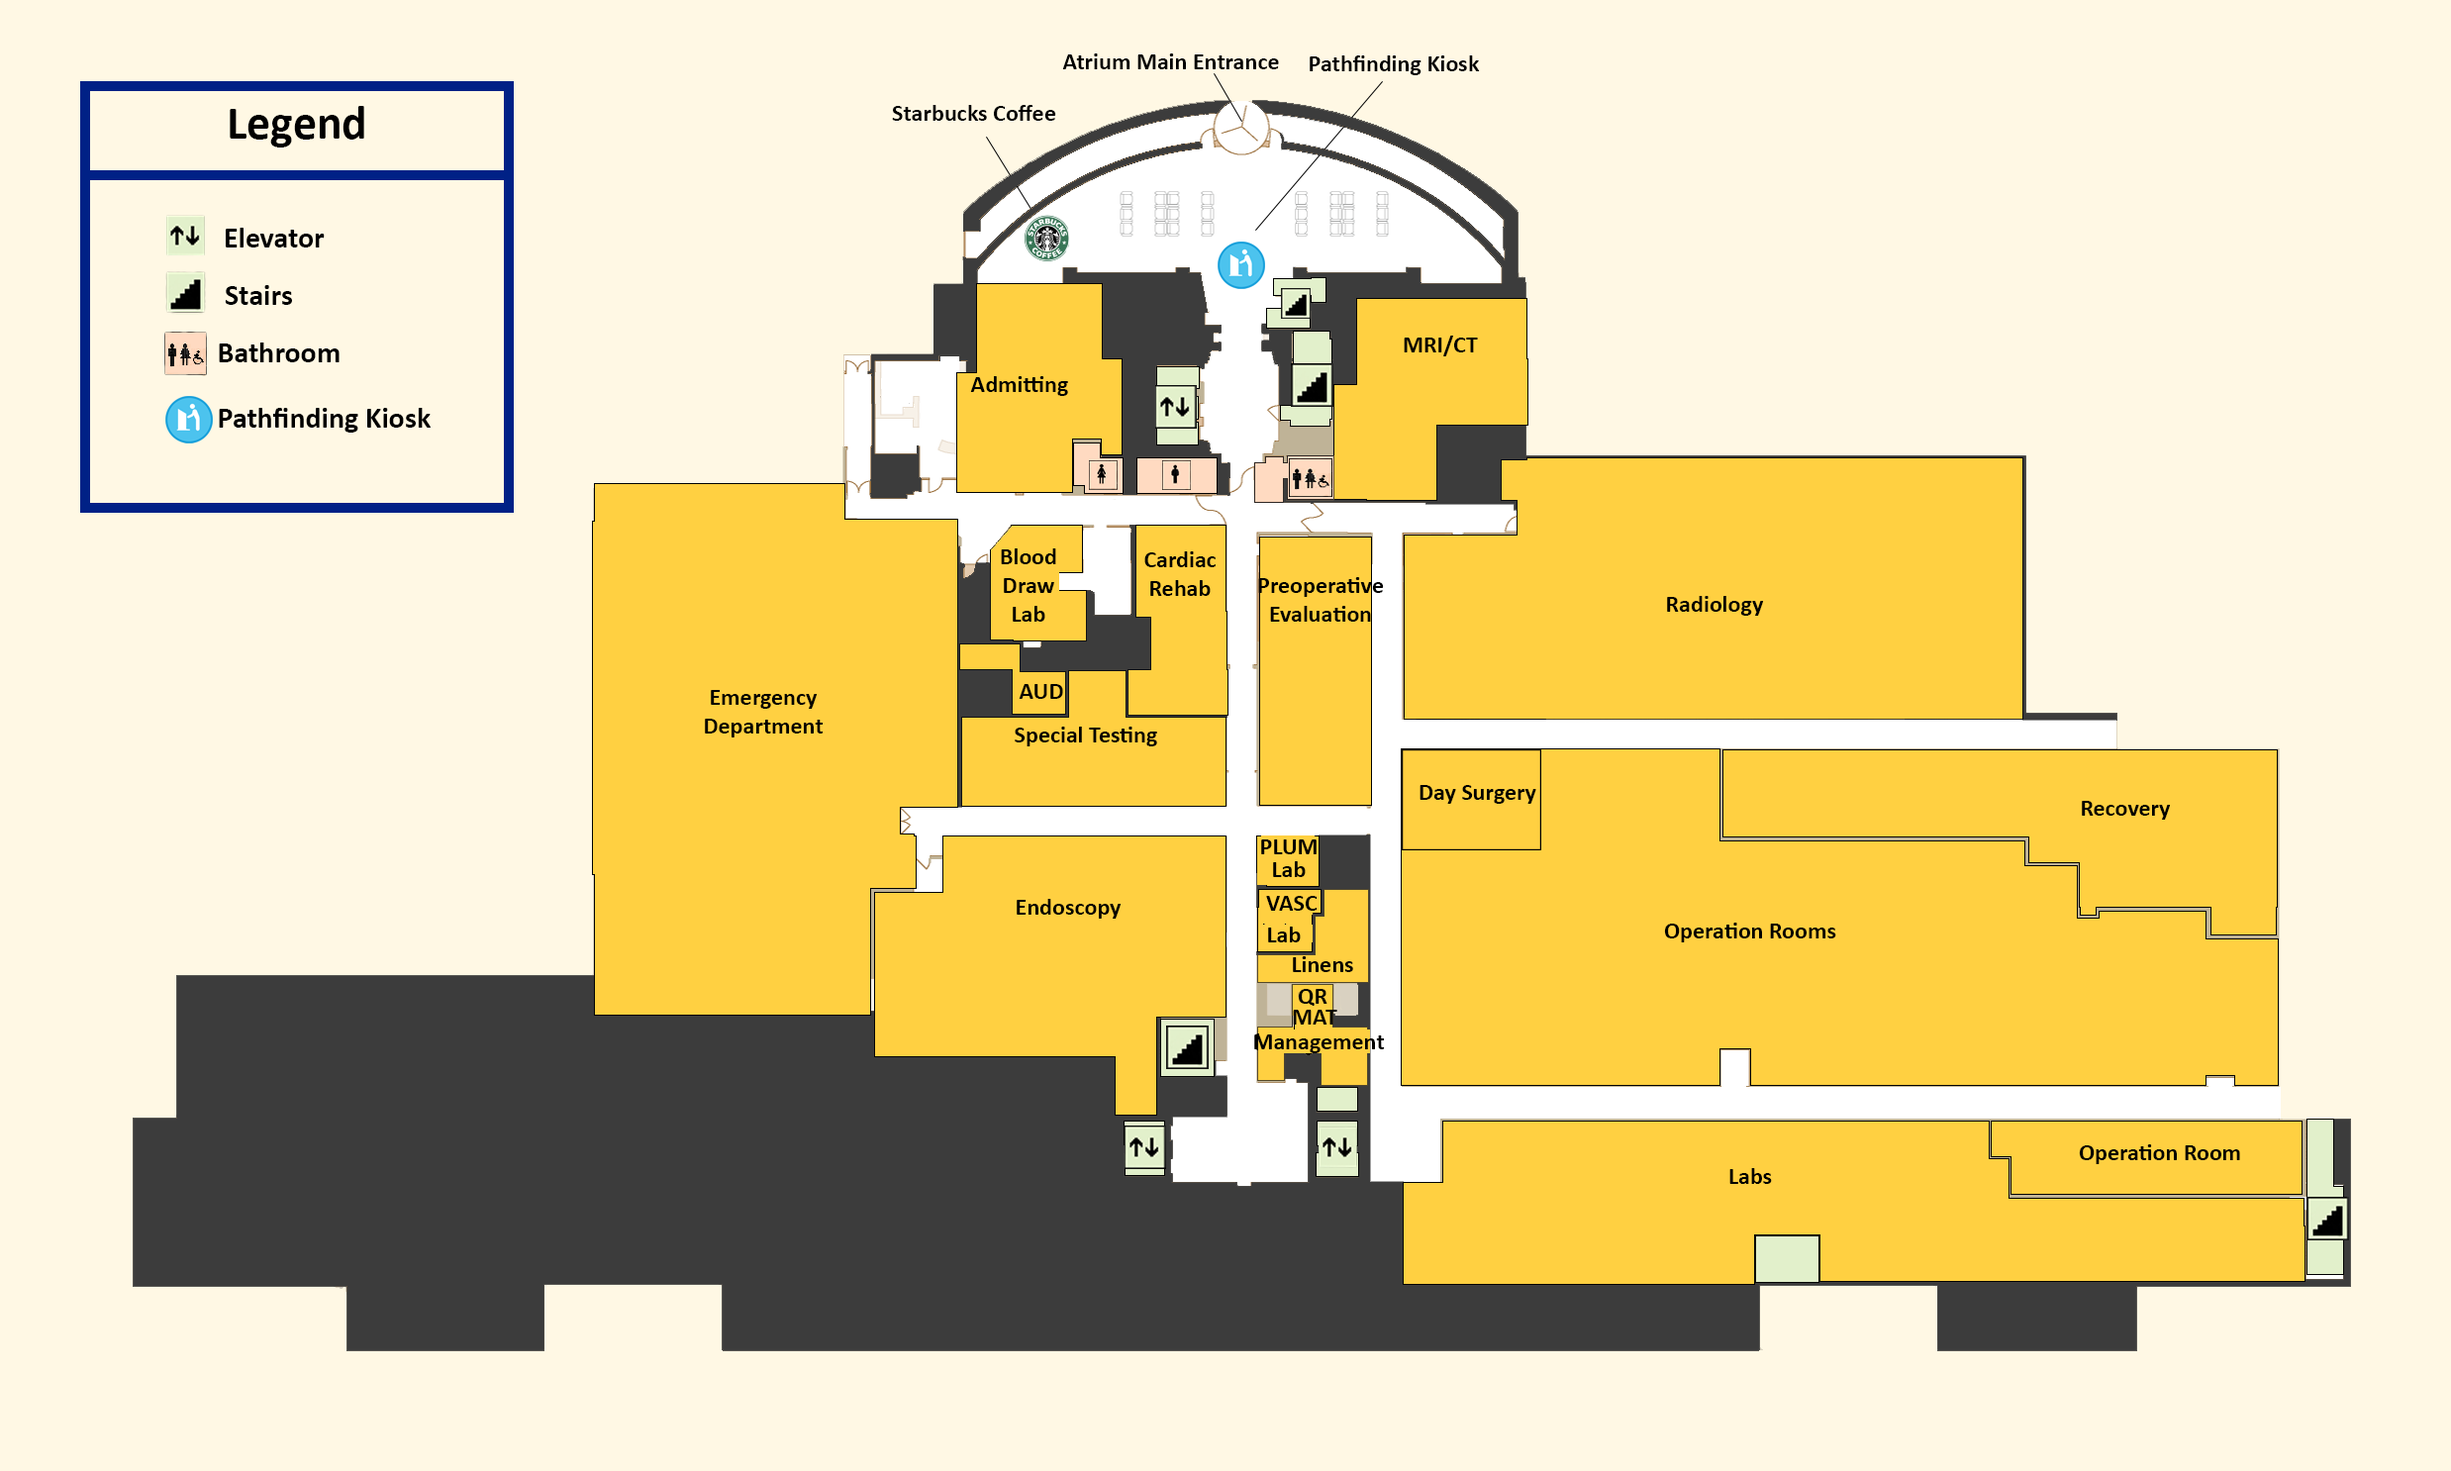
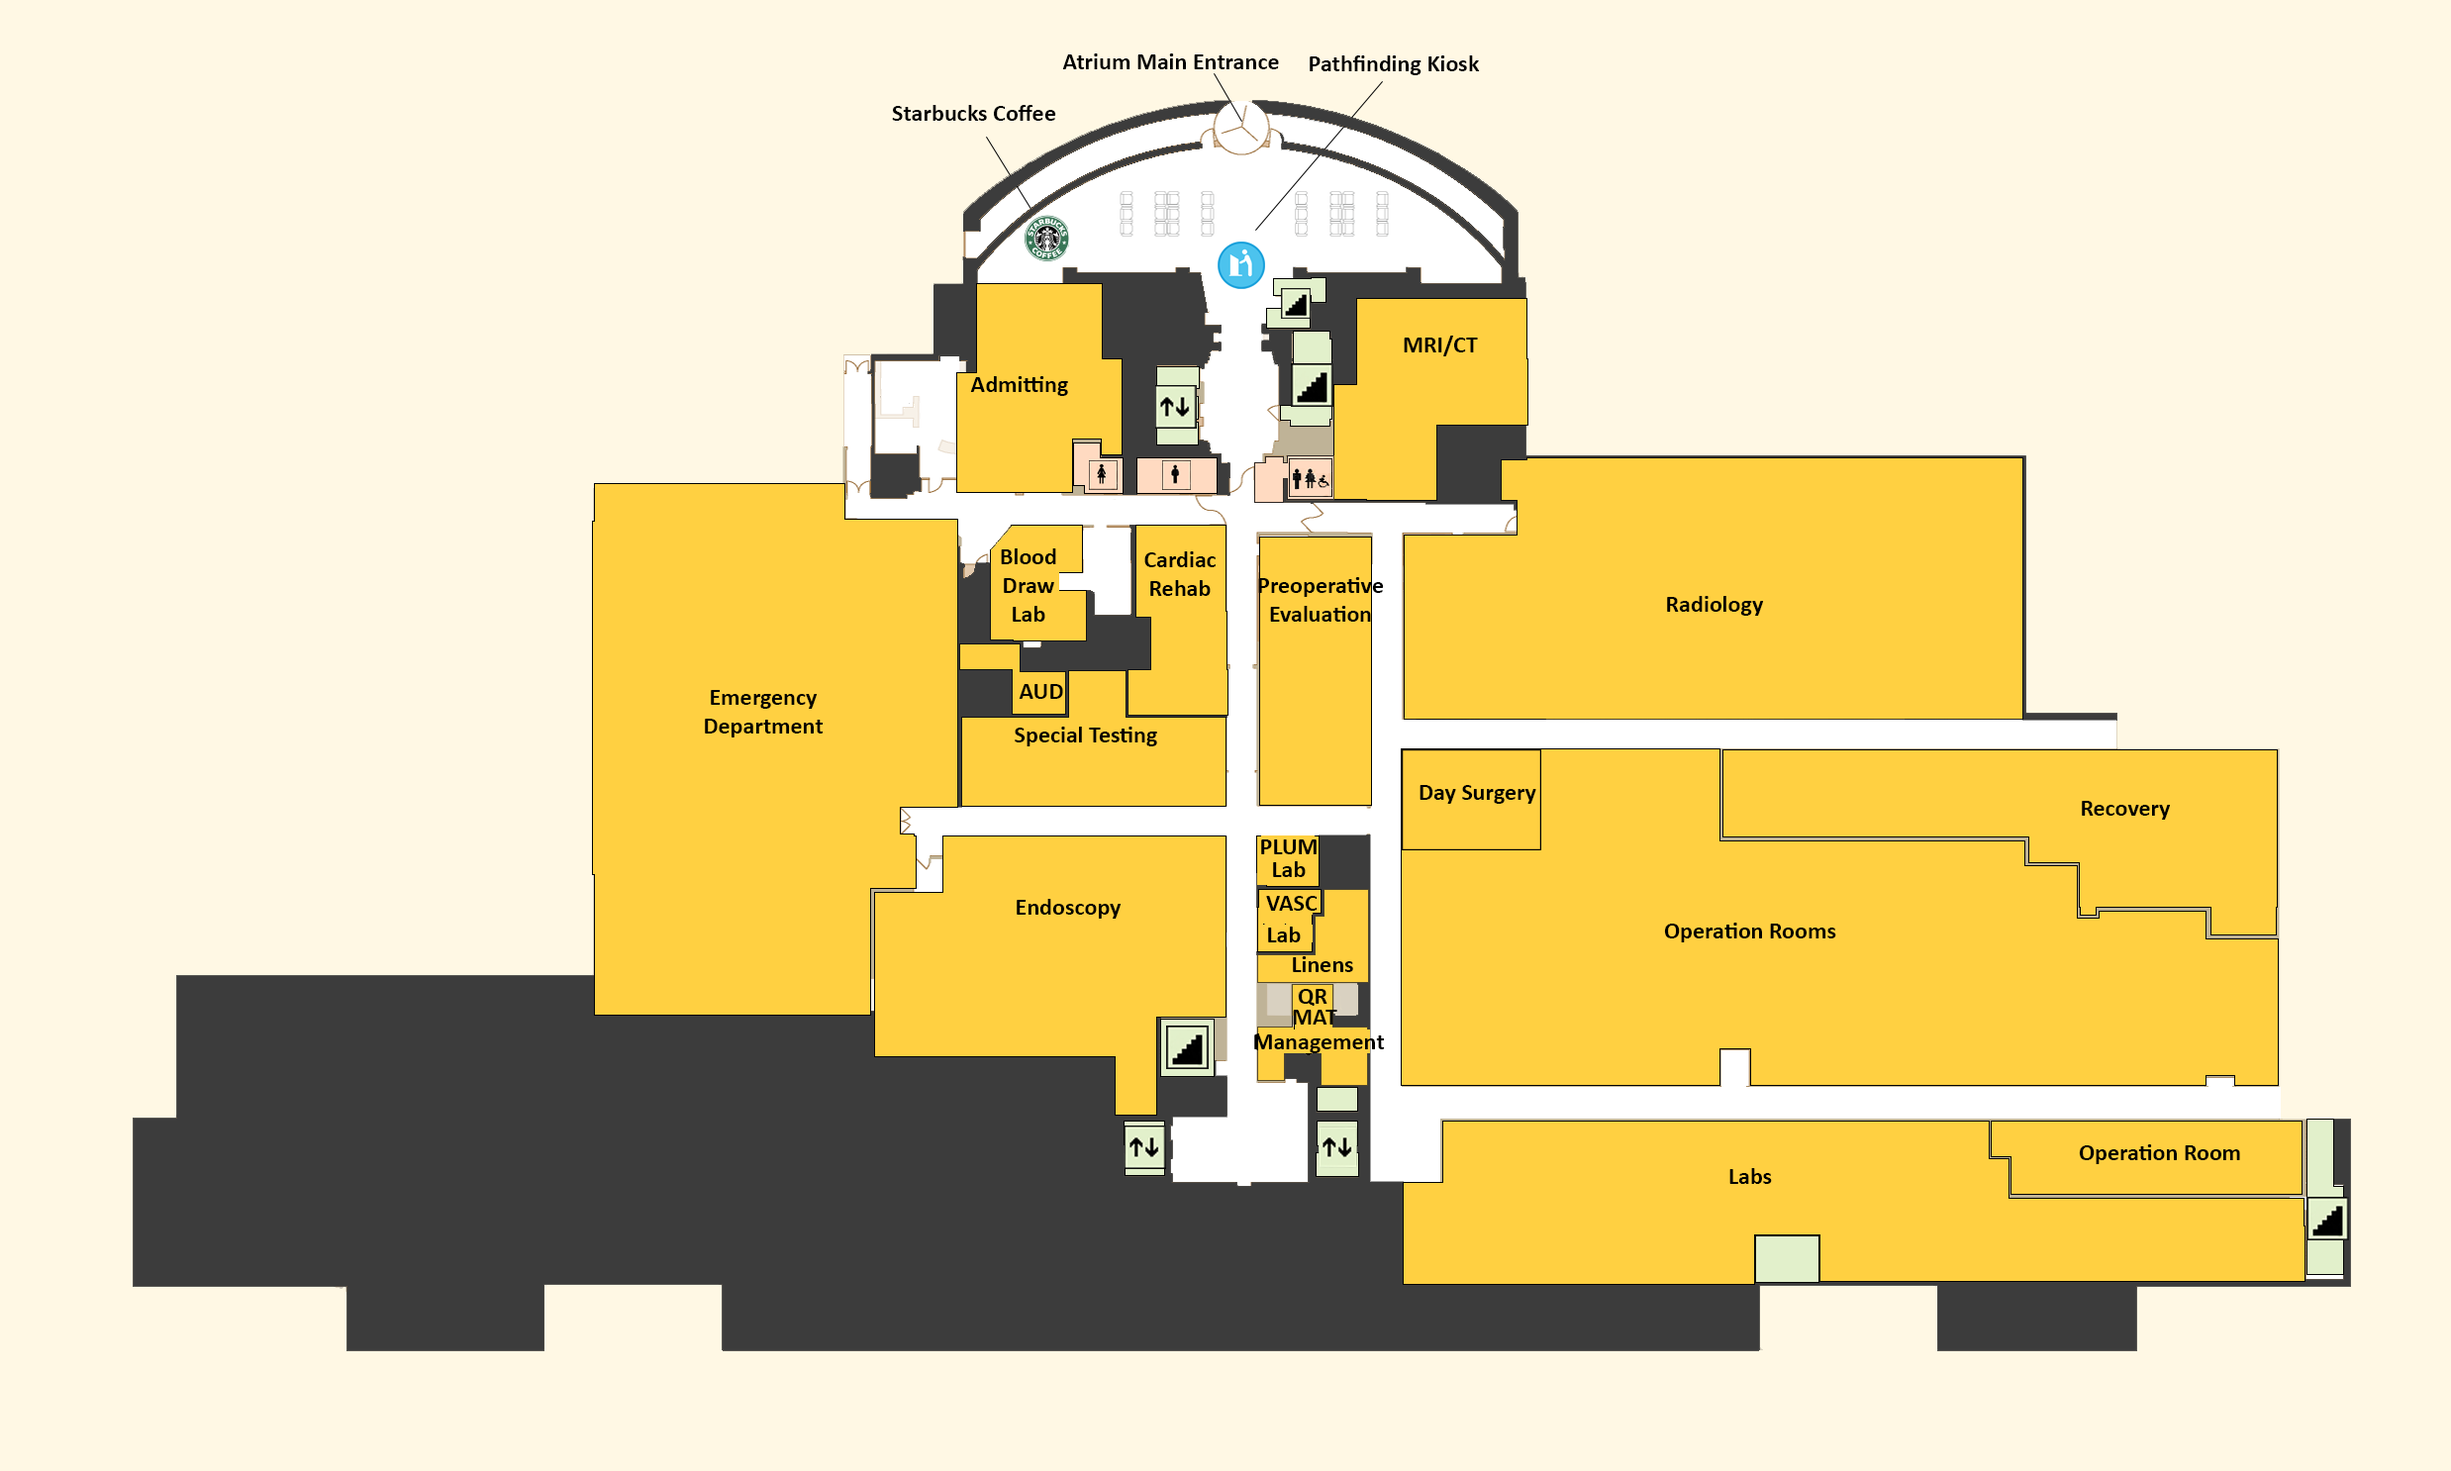
updated pictures

Changed region(s): [[0.0311, 0.031, 0.2177, 0.3715]]

diff --git a/src/main/java/edu/wpi/N/views/MapEditorController.java b/src/main/java/edu/wpi/N/views/MapEditorController.java
@@ -1022,7 +1022,7 @@ public class MapEditorController implements Controller {
     btn_floor4.setOnMouseClicked(
         e -> {
           currentFloor = 4;
-          setFloorImg("/edu/wpi/N/images/Floor4TeamN.png");
+          setFloorImg("/edu/wpi/N/images/Floor4SolidBackground.png");
           mode = Mode.NO_STATE;
         });
     btn_floor5
